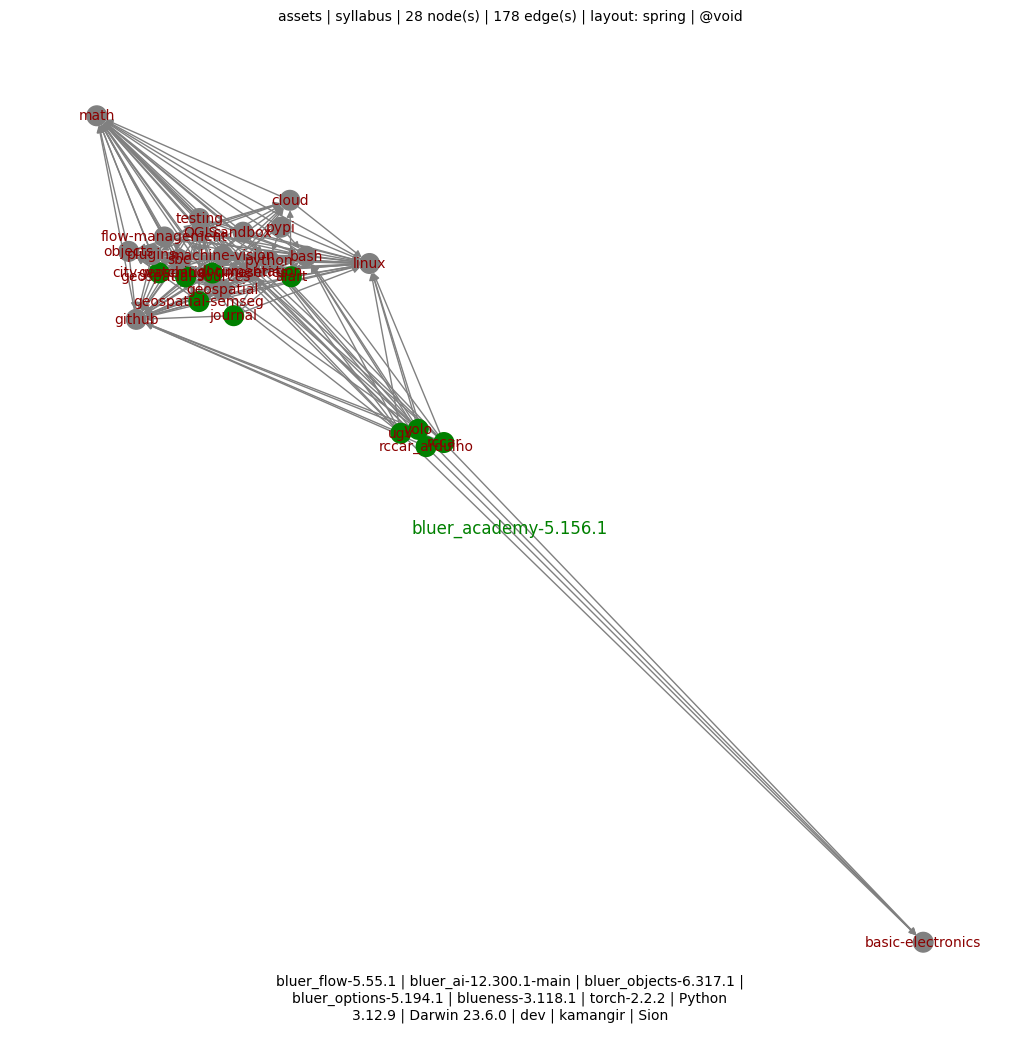
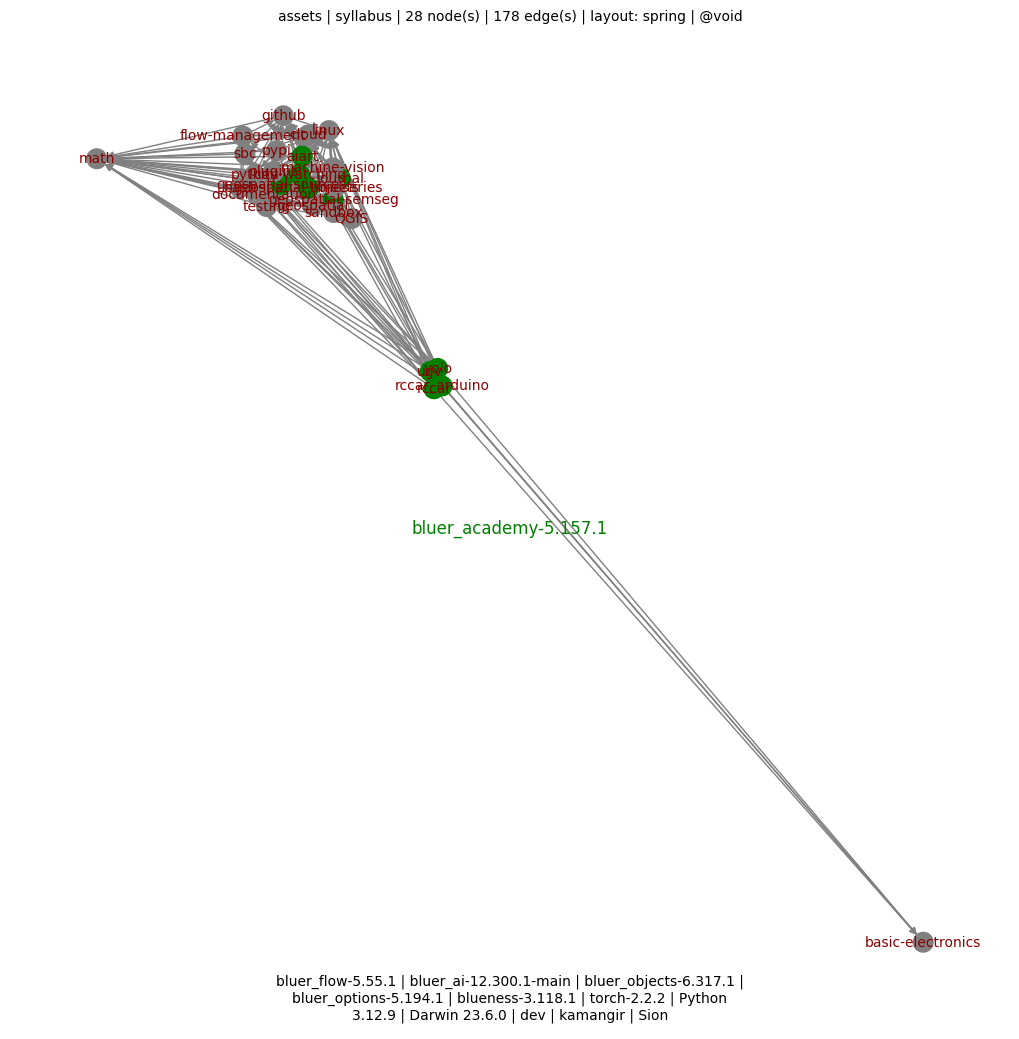
++ - kamangir/bolt#746

Changed region(s): [[0.0608, 0.0924, 0.4868, 0.462], [0.4563, 0.4312, 0.8822, 0.8932]]

diff --git a/bluer_academy/__init__.py b/bluer_academy/__init__.py
@@ -4,7 +4,7 @@ ICON = "📐"
 
 DESCRIPTION = f"{ICON} an academy for practical AI in Iran."
 
-VERSION = "5.156.1"
+VERSION = "5.157.1"
 
 REPO_NAME = "bluer-academy"
 

diff --git a/README.md b/README.md
@@ -15,4 +15,4 @@ pip install bluer-academy
 
 [![pylint](https://github.com/kamangir/bluer-academy/actions/workflows/pylint.yml/badge.svg)](https://github.com/kamangir/bluer-academy/actions/workflows/pylint.yml) [![pytest](https://github.com/kamangir/bluer-academy/actions/workflows/pytest.yml/badge.svg)](https://github.com/kamangir/bluer-academy/actions/workflows/pytest.yml) [![bashtest](https://github.com/kamangir/bluer-academy/actions/workflows/bashtest.yml/badge.svg)](https://github.com/kamangir/bluer-academy/actions/workflows/bashtest.yml) [![PyPI version](https://img.shields.io/pypi/v/bluer-academy.svg)](https://pypi.org/project/bluer-academy/) [![PyPI - Downloads](https://img.shields.io/pypi/dd/bluer-academy)](https://pypistats.org/packages/bluer-academy)
 
-built by 🌀 [`bluer README`](https://github.com/kamangir/bluer-objects/tree/main/bluer_objects/README), based on 📐 [`bluer_academy-5.156.1`](https://github.com/kamangir/bluer-academy).
+built by 🌀 [`bluer README`](https://github.com/kamangir/bluer-objects/tree/main/bluer_objects/README), based on 📐 [`bluer_academy-5.157.1`](https://github.com/kamangir/bluer-academy).

diff --git a/bluer_academy/docs/academy/template.md b/bluer_academy/docs/academy/template.md
@@ -2,7 +2,7 @@ title:::
 
 📐 an academy for practical AI in Iran.
 
-instructions: ([en](./instructions/en.md)), 🇮🇷 ([fa](./instructions/en.md))
+instructions: ([en](./instructions/en.md)), 🇮🇷 ([fa](./instructions/fa.md))
 
 ## syllabus
 

diff --git a/bluer_academy/docs/academy/README.md b/bluer_academy/docs/academy/README.md
@@ -2,7 +2,7 @@
 
 📐 an academy for practical AI in Iran.
 
-instructions: ([en](./instructions/en.md)), 🇮🇷 ([fa](./instructions/en.md))
+instructions: ([en](./instructions/en.md)), 🇮🇷 ([fa](./instructions/fa.md))
 
 ## syllabus
 
